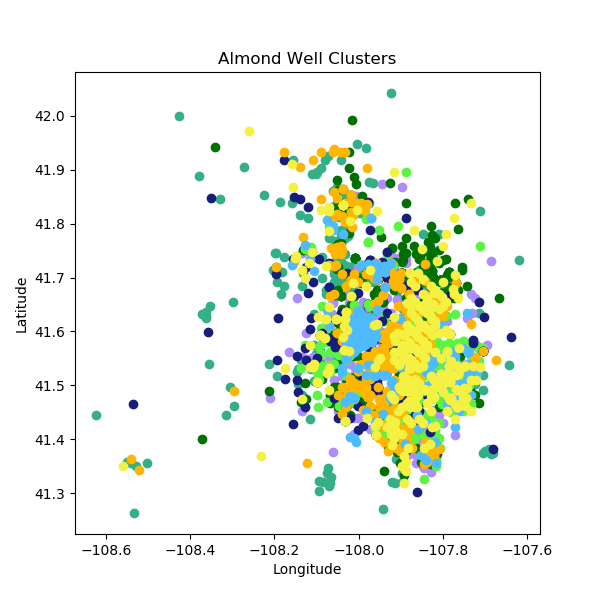
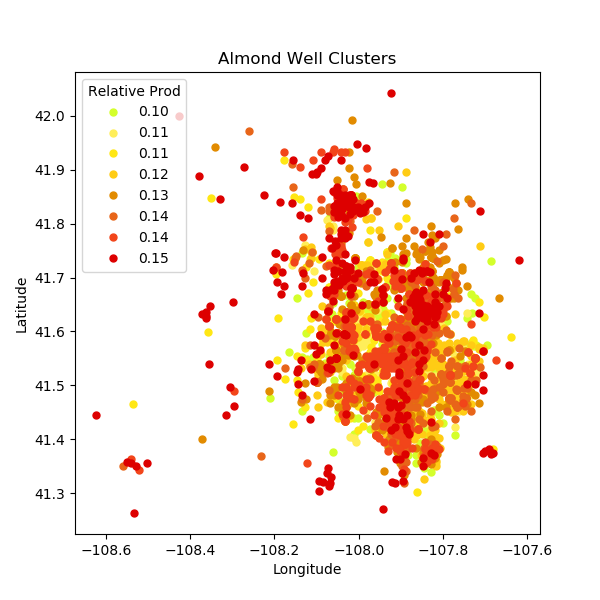
cluster color based on production

diff --git a/eda.py b/eda.py
@@ -6,6 +6,7 @@ from sklearn.ensemble import RandomForestRegressor, GradientBoostingRegressor
 from sklearn.model_selection import train_test_split, cross_val_score
 from sklearn.cluster import DBSCAN, KMeans
 import matplotlib.pyplot as plt
+import seaborn as sns
 
 
 def data_clean(df):
@@ -192,23 +193,38 @@ def plot_clusters(df, clusters):
 	plt.close()
 	fig, ax = plt.subplots(1, 1, figsize=(6, 6))
 
-	plots = df.loc[:, ['lat', 'lon']]
+	plots = df.loc[:, ['lat', 'lon', 'ip180']]
 	plots.loc[:, 'cluster'] = clusters
 
-	colors = {0: '#5cf442', 1: '#ffb600', 2: '#007003', 3: '#34af88',
-			  4: '#f4f142', 5: '#4fbbff', 6: '#171d7a', 7: '#ae8cff'}
+	colors = {'e': '#ffcc14', 'b': '#f2451a', 'd': '#e28b00', 'a': '#dd0000',
+			  'c': '#e86519', 'g': '#ffee59', 'f': '#ffe714', 'h': '#d4ff2b'}
+	alpha_clust = {0: 'a', 1: 'b', 2: 'c', 3: 'd', 4: 'e', 5: 'f', 6: 'g', 7: 'h'}
 
+	rel = 0
+	clust_vals = {}
 	for clust in plots['cluster'].unique():
 		clust_plot = plots.loc[plots['cluster'] == clust, :]
+		ip = clust_plot['ip180'].mean()
+		rel += ip
+		clust_vals[ip] = clust
+
+	for i, val in enumerate(sorted(clust_vals)[::-1]):
+		plots.loc[plots['cluster'] == clust_vals[val], 'cluster'] = alpha_clust[i]
+
+	for clust in sorted(plots['cluster'].unique())[::-1]:
+		clust_plot = plots.loc[plots['cluster'] == clust, :]
+		ip = clust_plot['ip180'].mean()
 		ax.plot(clust_plot['lon'].values, clust_plot['lat'].values,
 				marker='o', linestyle='None', color=colors[clust],
-				label=str(clust))
+				label='%.2f' % (ip / rel), markersize=5)
 
 	plt.title('Almond Well Clusters')
 	plt.xlabel('Longitude')
 	plt.ylabel('Latitude')
+	plt.legend(title='Relative Prod')
 
 	plt.savefig('figures/clusters.png')
+
 
 if __name__ == '__main__':
 	g_df = pd.read_csv('data/wamda.csv', encoding='ISO-8859-1', low_memory=False)
